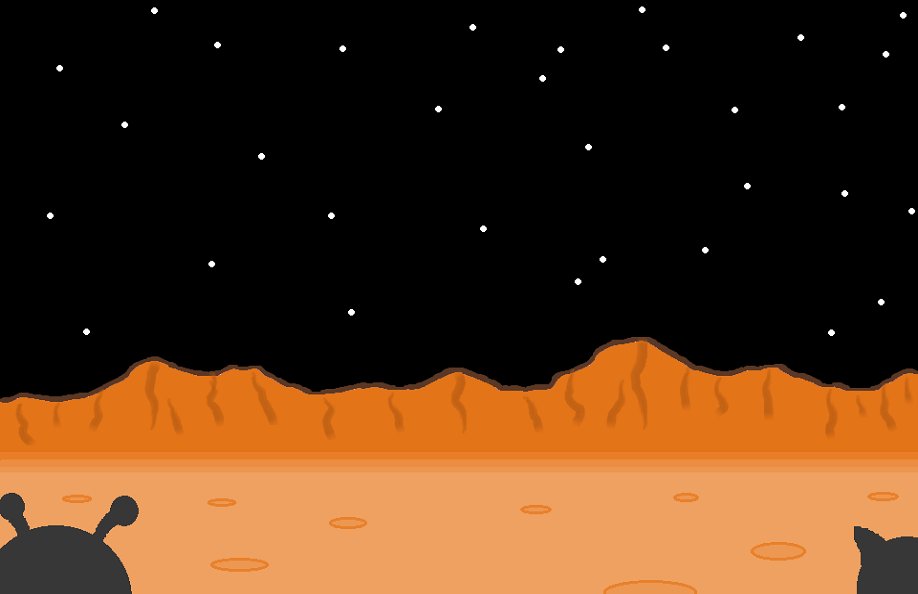
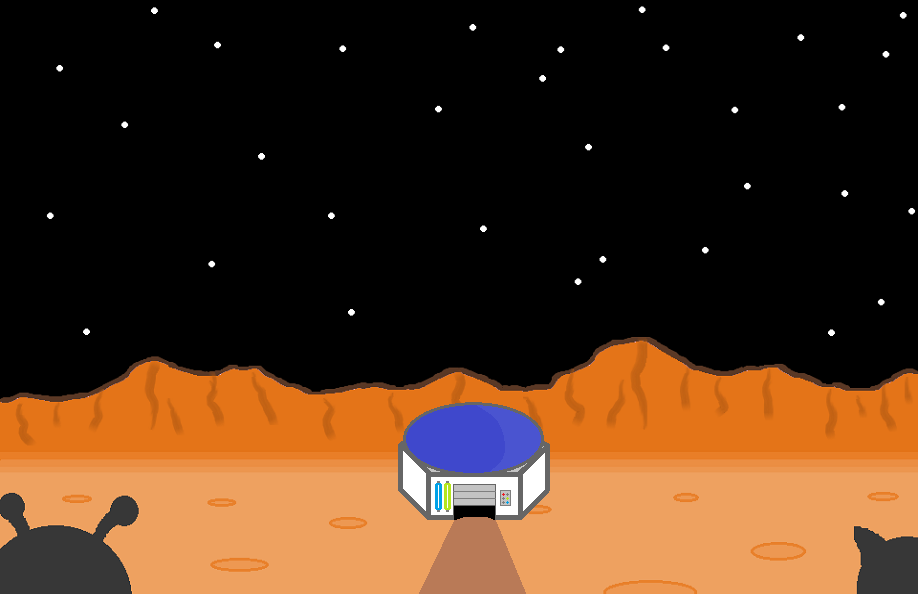
base to title/win screens

Changed region(s): [[0.427, 0.6667, 0.61, 1.0]]

diff --git a/src/js/winScreen.js b/src/js/winScreen.js
@@ -1,6 +1,6 @@
 // Importing only necessary assets
 import { Scene } from 'phaser';
-import background from '../assets/backgrounds/menu_background.png'
+import background from '../assets/backgrounds/win_background.png'
 import mainTheme from '../assets/music/Main_Theme.mp3'
 import greenRetroFont from '../assets/bitmaps/knight3_green.png'
 import redRetroFont from '../assets/bitmaps/knight3_red.png'
@@ -20,7 +20,7 @@ class WinScreen extends Phaser.Scene {
     }
 
     preload() {
-        this.load.image('menu_background', background);
+        this.load.image('win_background', background);
         this.load.audio('main_theme', mainTheme);
         this.load.image('green_retro_font', greenRetroFont);
         this.load.image('red_retro_font', redRetroFont);
